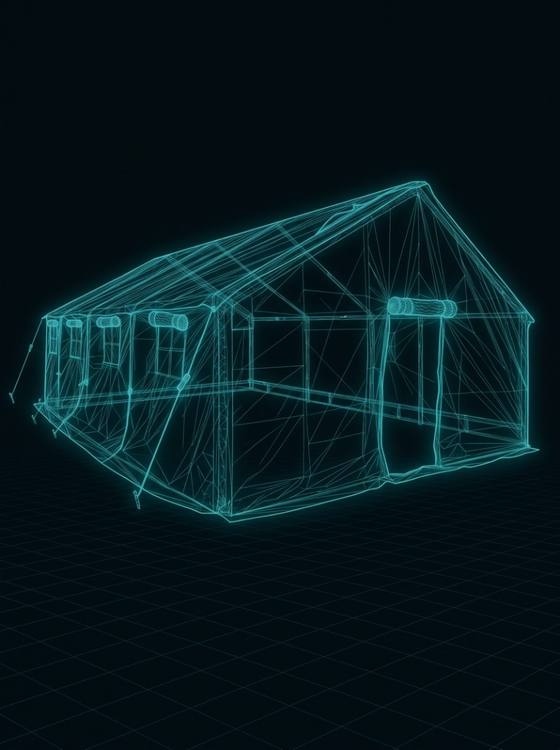
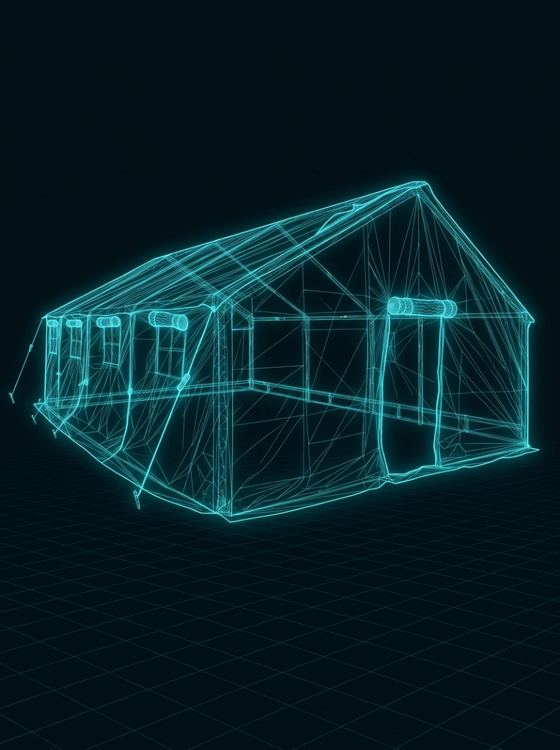
Brighten neon tent card backgrounds for better visibility.

Changed region(s): [[0.0607, 0.2147, 0.9714, 0.7053]]

diff --git a/server/static/hub.html b/server/static/hub.html
@@ -74,20 +74,20 @@ body{margin:0;min-height:100vh;color:#c9fbfb;font-family:var(--font-ui);
 .tent::before{
   content:"";position:absolute;inset:0;z-index:0;pointer-events:none;
   background:url("/static/tent-neon-bg.jpg") center 42% / cover no-repeat;
-  opacity:.28;filter:saturate(1.05)
+  opacity:.55;filter:saturate(1.1) brightness(1.08)
 }
 .tent::after{
   content:"";position:absolute;inset:0;z-index:0;pointer-events:none;
-  background:linear-gradient(180deg,rgba(1,7,11,.78) 0%,rgba(1,7,11,.55) 42%,rgba(1,7,11,.82) 100%)
+  background:linear-gradient(180deg,rgba(1,7,11,.58) 0%,rgba(1,7,11,.32) 42%,rgba(1,7,11,.62) 100%)
 }
 .tent > *{position:relative;z-index:1}
 .tent.air-ok{border-color:rgba(45,255,138,.55)}
 .tent.air-ok::after{
-  background:linear-gradient(180deg,rgba(8,36,22,.82) 0%,rgba(6,28,18,.58) 42%,rgba(4,22,14,.86) 100%)
+  background:linear-gradient(180deg,rgba(8,36,22,.62) 0%,rgba(6,28,18,.36) 42%,rgba(4,22,14,.66) 100%)
 }
 .tent.air-miss{border-color:rgba(255,61,82,.5)}
 .tent.air-miss::after{
-  background:linear-gradient(180deg,rgba(42,10,16,.84) 0%,rgba(32,8,12,.6) 42%,rgba(28,6,10,.88) 100%)
+  background:linear-gradient(180deg,rgba(42,10,16,.64) 0%,rgba(32,8,12,.38) 42%,rgba(28,6,10,.68) 100%)
 }
 .btn.freq-go{border-color:#3dff9a;color:#9dffc4;background:rgba(45,255,138,.08)}
 .btn.freq-go:disabled{opacity:.65;cursor:wait}
